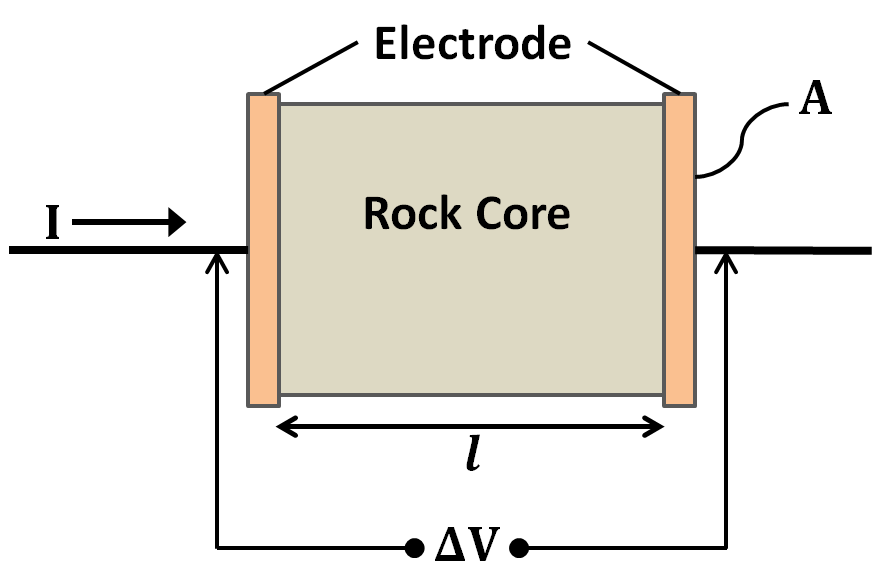
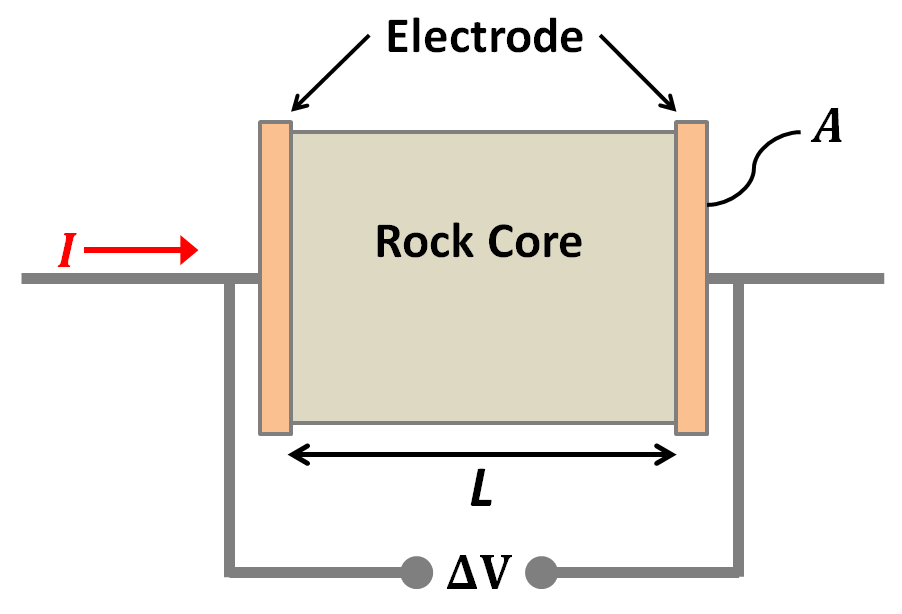
Edit figure in conductivity

Changed region(s): [[0.0, 0.0308, 1.0, 0.9555], [0.398, 0.339, 0.6429, 0.4315]]

diff --git a/content/foundations/physical_properties/physical_properties_conductivity.rst b/content/foundations/physical_properties/physical_properties_conductivity.rst
@@ -82,15 +82,15 @@ By measuring the voltage drop (:math:`\Delta V`) accross the length of the sampl
 	R = \frac{\Delta V}{I}
 
 
-The measured resistance increases proportional to the length of the core sample.
+The measured resistance increases proportional to the length (:math:`L`) of the core sample.
 We expect this given that the current must flow through more of the resistive material.
-The measured resistance is also inversely proportional to the cross-sectional area of the sample.
+The measured resistance is also inversely proportional to the cross-sectional area (:math:`A`) of the sample.
 This relationship can be understood by comparing the net resistance of two identical resistors in parallel to a single resistor in series.
 
-Ultimately, the resistivity of the sample can be obtained from the measured resistance, the length of the core (:math:`l`) and its cross-sectional area (:math:`A`) using Pouillet's law:
+Ultimately, the resistivity of the sample can be obtained from the measured resistance, the length of the core and its cross-sectional area using Pouillet's law:
 
 .. math::
-	\rho = \frac{R A}{l}
+	\rho = \frac{R A}{L}
 
 
 
